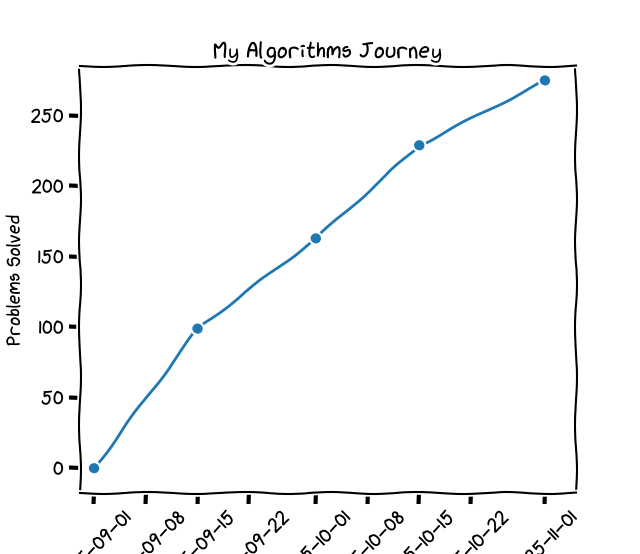
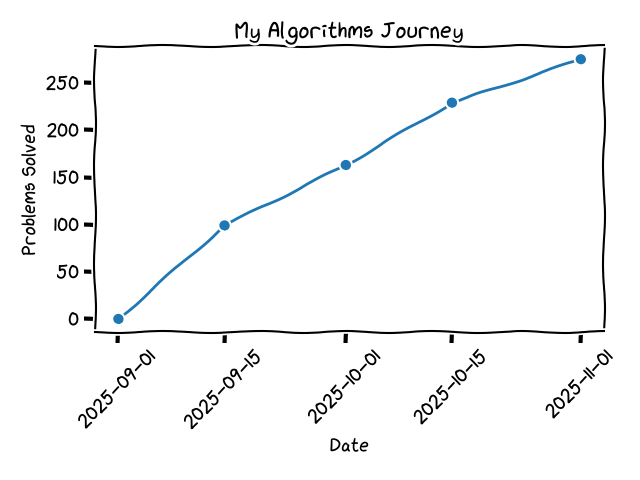
update

diff --git a/roadmap.py b/roadmap.py
@@ -14,4 +14,6 @@ plt.xlabel("Date")
 plt.ylabel("Problems Solved")
 plt.xticks(rotation=45)
 plt.grid(True)
+plt.xticks(df["date"])
+plt.tight_layout()
 plt.show()
